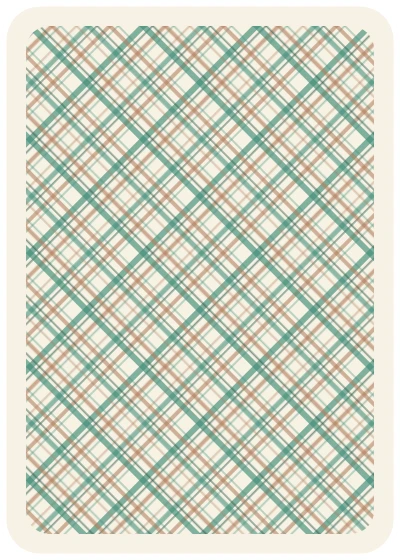
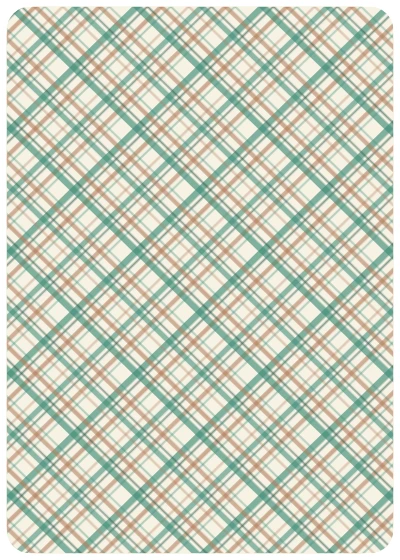
рубашка плед без молочного кольца: ткань до белой кейлинии [skip ci]

diff --git a/game-presets/cards/src/decks/backs.ts b/game-presets/cards/src/decks/backs.ts
@@ -5,7 +5,7 @@
 // A woven back IS the face: full strength, no crest. A tiled ground sits at half strength under
 // its crest — nothing on a real cloth back sits in the middle of the weave.
 
-import { doc, H, keyline, paperRect, px, R, W } from "./card.js";
+import { doc, H, KEYLINE, keyline, paperRect, px, R, W } from "./card.js";
 import { fmt } from "./lettering.js";
 import { markAt, SUIT_MARKS, type Mark } from "./marks.js";
 import { PAPER } from "./style.js";
@@ -27,6 +27,8 @@ const CLUB = ["..#..#...", ".##..##..", ".###.###.", ".#######.", "#########", "
 
 interface Skin {
   readonly bg: string;
+  /** The cloth runs to the keyline — no cream ring between them. The owner's call for the plaid. */
+  readonly bare?: boolean;
   /** The art, drawn into the inset area — given that area's box. */
   readonly art: (x: number, y: number, w: number, h: number) => string;
   /** The crest at centre, for a tiled back; `undefined` for a woven one. */
@@ -96,7 +98,7 @@ function argyle(): string {
 }
 
 const SKINS: Readonly<Record<BackName, Skin>> = {
-  plaid: { bg: PLAID_BG, art: (x, y, w, h) => woven(plaid(), x, y, w, h) },
+  plaid: { bg: PLAID_BG, bare: true, art: (x, y, w, h) => woven(plaid(), x, y, w, h) },
   argyle: { bg: ARGYLE_BG, art: (x, y, w, h) => woven(argyle(), x, y, w, h) },
   club: {
     bg: RIM_MID,
@@ -120,10 +122,10 @@ const SKINS: Readonly<Record<BackName, Skin>> = {
   },
 };
 
-/** A back, as a whole SVG document: the keyline, a cream ring, the art inset 4px under a rounded clip, the crest. */
+/** A back, as a whole SVG document: the keyline, a cream ring (unless `bare`), the art under a rounded clip, the crest. */
 export function backSvg(name: BackName): string {
   const skin = SKINS[name];
-  const inset = px(4);
+  const inset = skin.bare ? px(KEYLINE.width) : px(4);
   const r = R * 0.6;
   const clip = `<clipPath id="artClip"><rect x="${inset}" y="${inset}" width="${W - 2 * inset}" height="${H - 2 * inset}" rx="${fmt(r)}" ry="${fmt(r)}"/></clipPath>`;
   return doc(

diff --git a/game-presets/cards/src/decks/face.test.ts b/game-presets/cards/src/decks/face.test.ts
@@ -2,6 +2,8 @@ import { readFileSync } from "node:fs";
 import { describe, expect, it } from "vitest";
 import { crossade, type CardSpec } from "../crossade.js";
 import { backSvg, BACK_NAMES } from "./backs.js";
+import { KEYLINE, px } from "./card.js";
+import { fmt } from "./lettering.js";
 import { faceSvg, isCourt } from "./face.js";
 import { figurePlacement, viewBoxOf } from "./figures.js";
 import { ACCENT_PAINT, deckStyleId, deckStyleOf, DECK_STYLES, FOUR_INK, PAPER, type DeckStyle } from "./style.js";
@@ -129,5 +131,9 @@ describe("decks/face", () => {
     expect(backSvg("plaid")).not.toContain("<path");
     expect(backSvg("club")).toContain("<path");
     expect(backSvg("club")).toContain("<pattern");
+    // The plaid runs to the keyline: no cream ring, its art starts one keyline in.
+    const edge = `<svg x="${fmt(px(KEYLINE.width))}"`;
+    expect(backSvg("plaid")).toContain(edge);
+    expect(backSvg("argyle")).not.toContain(edge);
   });
 });
